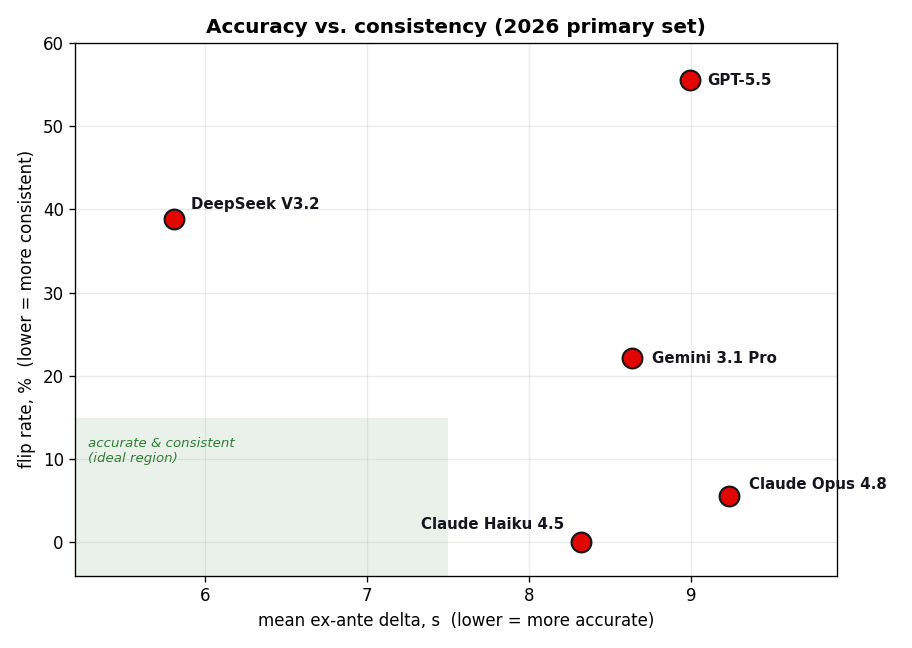
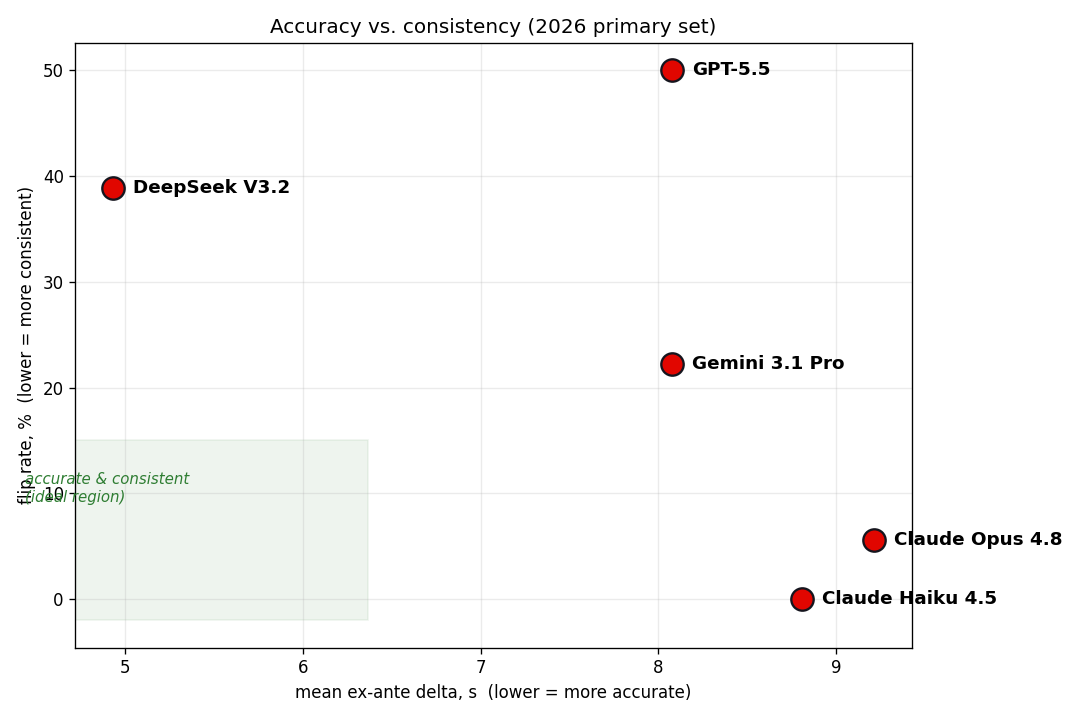
Add combined calibration figure; honest contamination season_gap
Figure 2 (calibration_combined.png): predicted vs observed mean lap time
per stint pooled over all 510 stints from the 11 races, y=x reference,
plus a per-lap absolute-error histogram with the per-stint median (0.09)
and mean (0.22) MAE marked.

season_gap.png: recomputed from scores.jsonl on the dry subset (matching
outputs/contamination.md) with the H3 Mann-Whitney + Holm test. Each
model is now labelled by the direction of its significant gap so the
figure communicates the weak, mixed signal honestly: deepseek/gemini
significantly better on pre-2026 (recall), gpt-5.5/haiku significantly
worse (not recall), opus no gap.

Changed region(s): [[0.0, 0.0309, 0.9825, 0.9877], [0.1842, 0.3086, 0.3377, 0.3704], [0.3991, 0.6481, 0.4298, 0.8025]]

diff --git a/analysis/figures.py b/analysis/figures.py
@@ -23,6 +23,16 @@ FIG_DIR = OUTPUTS / "figures"
 ACCENT = "#e10600"
 DARK = "#15151e"
 
+# Pretty display names for per-model figures.
+PRETTY = {
+    "gpt-5.5": "GPT-5.5",
+    "deepseek-v3.2": "DeepSeek V3.2",
+    "gemini-3.1-pro": "Gemini 3.1 Pro",
+    "claude-opus-4.8": "Claude Opus 4.8",
+    "claude-haiku-4.5": "Claude Haiku 4.5",
+    "claude-fable-5": "Claude Fable 5",
+}
+
 plt.rcParams.update({"figure.dpi": 120, "axes.grid": True, "grid.alpha": 0.25})
 
 
@@ -36,12 +46,34 @@ def load_inputs() -> tuple[dict, list[dict]]:
     return board, scores
 
 
-def fig_leaderboard_bar(board: dict) -> Path:
-    rows = [m for m in board["models"] if m["mean_delta_exante_s"] is not None]
-    rows.sort(key=lambda m: m["mean_delta_exante_s"], reverse=True)  # best at top of barh
-    names = [m["model"] for m in rows]
-    exante = [m["mean_delta_exante_s"] for m in rows]
-    hindsight = [m.get("mean_delta_hindsight_s") or np.nan for m in rows]
+def _primary_2026(scores: list[dict]) -> dict[str, dict[str, float]]:
+    """Per-model mean delta_exante / delta_hindsight on the 2026 PRIMARY set
+    (post-cutoff races, dry subset). This is the headline evaluation set."""
+    ex: dict[str, list[float]] = {}
+    hi: dict[str, list[float]] = {}
+    for s in scores:
+        if s["invalid"] or s.get("changeable_conditions") or s["season"] != 2026:
+            continue
+        if s.get("delta_exante_s") is not None:
+            ex.setdefault(s["model_name"], []).append(s["delta_exante_s"])
+        if s.get("delta_hindsight_s") is not None:
+            hi.setdefault(s["model_name"], []).append(s["delta_hindsight_s"])
+    return {
+        m: {
+            "mean_exante": float(np.mean(ex[m])),
+            "mean_hindsight": float(np.mean(hi[m])) if hi.get(m) else np.nan,
+        }
+        for m in ex
+    }
+
+
+def fig_leaderboard_bar(scores: list[dict], board: dict) -> Path:
+    # 2026 PRIMARY set (post-cutoff dry races) — the contamination-proof headline.
+    prim = _primary_2026(scores)
+    rows = sorted(prim.items(), key=lambda kv: kv[1]["mean_exante"], reverse=True)  # best at top
+    names = [PRETTY.get(m, m) for m, _ in rows]
+    exante = [v["mean_exante"] for _, v in rows]
+    hindsight = [v["mean_hindsight"] for _, v in rows]
     y = np.arange(len(names))
     fig, ax = plt.subplots(figsize=(8, 4.6))
     bars = ax.barh(y + 0.2, exante, height=0.4, color=ACCENT, label="vs ex-ante optimal (primary)")
@@ -49,10 +81,56 @@ def fig_leaderboard_bar(board: dict) -> Path:
     ax.bar_label(bars, fmt="%.1f", padding=3, fontsize=9)
     ax.set_yticks(y, names)
     ax.set_xlabel("mean delta (s) - lower is better")
-    ax.set_title(f"BOXBOX leaderboard ({board['mode']} data)")
+    ax.set_title(f"BOXBOX leaderboard — 2026 primary set ({board['mode']} data)")
     ax.legend(fontsize=8)
     fig.tight_layout()
     path = FIG_DIR / "leaderboard_bar.png"
+    fig.savefig(path)
+    plt.close(fig)
+    return path
+
+
+def fig_accuracy_vs_consistency(scores: list[dict], board: dict) -> Path:
+    """Scatter: accuracy (mean ex-ante delta on the 2026 primary set, x) vs consistency
+    (flip rate %, y). Both lower = better; the bottom-left is the ideal region."""
+    prim = _primary_2026(scores)
+    flip = {m["model"]: m["flip_rate_pct"] for m in board["models"]}
+    fig, ax = plt.subplots(figsize=(9, 6))
+    xs, ys = [], []
+    for model, v in prim.items():
+        x = v["mean_exante"]
+        y = flip.get(model)
+        if y is None:
+            continue
+        xs.append(x)
+        ys.append(y)
+        ax.scatter(x, y, s=180, color=ACCENT, edgecolor=DARK, linewidth=1.4, zorder=3)
+        ax.annotate(
+            PRETTY.get(model, model),
+            (x, y),
+            xytext=(12, 0),
+            textcoords="offset points",
+            va="center",
+            fontsize=11,
+            fontweight="bold",
+        )
+    # ideal region (accurate & consistent)
+    x0 = min(xs) - 0.5
+    ax.axhspan(-2, 15, xmin=0, xmax=0.35, color="#2e7d32", alpha=0.08, zorder=0)
+    ax.text(
+        x0,
+        12,
+        "accurate & consistent\n(ideal region)",
+        fontsize=9,
+        color="#2e7d32",
+        style="italic",
+        va="top",
+    )
+    ax.set_xlabel("mean ex-ante delta, s  (lower = more accurate)")
+    ax.set_ylabel("flip rate, %  (lower = more consistent)")
+    ax.set_title("Accuracy vs. consistency (2026 primary set)")
+    fig.tight_layout()
+    path = FIG_DIR / "accuracy_vs_consistency.png"
     fig.savefig(path)
     plt.close(fig)
     return path
@@ -126,36 +204,199 @@ def fig_flip_rate(board: dict) -> Path:
     return path
 
 
-def fig_season_gap(board: dict) -> Path | None:
-    """Contamination-gap chart: mean delta on pre-2026 vs 2026 races per model."""
-    models = [m for m in board["models"] if m.get("per_season_mean_delta_exante_s")]
-    seasons = sorted({s for m in models for s in m["per_season_mean_delta_exante_s"]})
-    old = [s for s in seasons if s < "2026"]
-    if not old or "2026" not in seasons:
-        return None
-    names = [m["model"] for m in models]
-    pre = [
-        np.mean(
-            [
-                m["per_season_mean_delta_exante_s"][s]
-                for s in old
-                if s in m["per_season_mean_delta_exante_s"]
-            ]
-        )
-        for m in models
+def _calibration_records_all() -> list[dict]:
+    """Per-stint simulator-vs-actual records pooled across all 11 races.
+
+    Read-only: ingest_race reads data/processed/*.json (no network, no spend); the
+    degradation fits and calibration_records are deterministic. Mirrors the per-race
+    logic in scripts/build_dataset.py so the combined figure matches the per-race ones.
+    """
+    from boxbox.config import load_config
+    from boxbox.data.ingest import ingest_race
+    from boxbox.dataset import race_specs
+    from boxbox.sim.degradation import calibration_records
+    from boxbox.sim.race_sim import make_simulator
+
+    sim_cfg = load_config("run").get("simulator", {})
+    records: list[dict] = []
+    for spec in race_specs(None):
+        race = ingest_race(spec["race_id"], int(spec["year"]), str(spec["event"]))
+        _, deg, _, _, _ = make_simulator(race, sim_cfg)
+        records += calibration_records(race, deg)
+    return records
+
+
+def fig_calibration_combined() -> Path:
+    """Paper Figure 2: simulator calibration pooled over every stint in all 11 races.
+
+    Left: predicted vs observed mean lap time per stint (one point per stint) with a
+    y=x reference. Right: histogram of per-lap absolute error, with the per-stint
+    median (0.09 s) and mean (0.22 s) MAE marked. Axes are in seconds-per-lap so the
+    scatter, the histogram, and the annotated MAE are all in the same units."""
+    records = _calibration_records_all()
+    actual = np.array([r["actual_s"] / r["n_laps"] for r in records])
+    predicted = np.array([r["predicted_s"] / r["n_laps"] for r in records])
+    abs_err = np.abs(predicted - actual)  # per-lap absolute error, one per stint
+    median_mae = float(np.median(abs_err))
+    mean_mae = float(np.mean(abs_err))
+
+    fig, (ax1, ax2) = plt.subplots(1, 2, figsize=(12, 5))
+
+    ax1.scatter(actual, predicted, s=20, alpha=0.55, color=ACCENT, edgecolor="none", zorder=3)
+    lo = float(min(actual.min(), predicted.min()))
+    hi = float(max(actual.max(), predicted.max()))
+    pad = 0.03 * (hi - lo)
+    ax1.plot([lo - pad, hi + pad], [lo - pad, hi + pad], "k--", lw=1.2, zorder=2, label="y = x")
+    ax1.set_xlim(lo - pad, hi + pad)
+    ax1.set_ylim(lo - pad, hi + pad)
+    ax1.set_aspect("equal", adjustable="box")
+    ax1.set_xlabel("observed mean lap time per stint (s)")
+    ax1.set_ylabel("simulated mean lap time per stint (s)")
+    ax1.set_title(f"Stint calibration — all 11 races ({len(records)} stints)")
+    ax1.legend(loc="upper left", fontsize=9)
+
+    ax2.hist(abs_err, bins=40, color=DARK, edgecolor="white", linewidth=0.4)
+    ax2.axvline(median_mae, color=ACCENT, lw=2, label=f"median MAE = {median_mae:.2f} s/lap")
+    ax2.axvline(mean_mae, color="#2e7d32", lw=2, ls="--", label=f"mean MAE = {mean_mae:.2f} s/lap")
+    ax2.set_xlabel("per-lap absolute error (s/lap)")
+    ax2.set_ylabel("stints")
+    ax2.set_title("Per-stint calibration error")
+    ax2.legend(fontsize=9)
+
+    fig.tight_layout()
+    path = FIG_DIR / "calibration_combined.png"
+    fig.savefig(path)
+    plt.close(fig)
+    return path
+
+
+def _season_gap_stats(scores: list[dict]) -> dict[str, dict]:
+    """Per-model pre-2026 vs 2026 mean delta_exante on the DRY subset, plus the H3
+    test (two-sided Mann-Whitney U, Holm-corrected across models). Recomputed here
+    from scores.jsonl so the figure is identical to outputs/contamination.md (§8e)
+    rather than the unweighted per-season averages stored on the leaderboard."""
+    from scipy.stats import mannwhitneyu
+
+    valid = [
+        s
+        for s in scores
+        if not s["invalid"]
+        and s.get("delta_exante_s") is not None
+        and not s.get("changeable_conditions")
     ]
-    new = [m["per_season_mean_delta_exante_s"].get("2026", np.nan) for m in models]
+    models = sorted({s["model_name"] for s in valid})
+
+    def deltas(m: str, pred) -> list[float]:
+        return [s["delta_exante_s"] for s in valid if s["model_name"] == m and pred(s)]
+
+    stats: dict[str, dict] = {}
+    pvals: dict[str, float] = {}
+    for m in models:
+        pre = deltas(m, lambda s: s["season"] < 2026)
+        new = deltas(m, lambda s: s["season"] == 2026)
+        if not pre or not new:
+            continue
+        stats[m] = {
+            "pre": float(np.mean(pre)),
+            "new": float(np.mean(new)),
+            "gap": float(np.mean(pre) - np.mean(new)),
+            "n_pre": len(pre),
+            "n_new": len(new),
+        }
+        if len(pre) >= 3 and len(new) >= 3:
+            _, p = mannwhitneyu(pre, new, alternative="two-sided")
+            pvals[m] = float(p)
+
+    # Holm-Bonferroni across models (identical to scripts/contamination_report.py).
+    items = sorted(pvals.items(), key=lambda kv: kv[1])
+    k = len(items)
+    running = 0.0
+    for i, (m, p) in enumerate(items):
+        adj = max(min(1.0, (k - i) * p), running)
+        running = adj
+        stats[m]["holm_p"] = adj
+        stats[m]["sig"] = adj < 0.05
+    return stats
+
+
+def fig_season_gap(scores: list[dict]) -> Path | None:
+    """Contamination-check chart: per-model mean delta on pre-2026 vs 2026 races, on the
+    DRY subset, with Holm-significant gaps marked. The finding is a WEAK, MIXED signal —
+    the figure must not imply a clean null OR a strong recall effect, so each model is
+    labelled by the *direction* of its significant gap, not just a bare asterisk."""
+    stats = _season_gap_stats(scores)
+    if not stats:
+        return None
+    # Order by 2026 mean (best first) for a leaderboard-like reading.
+    names = sorted(stats, key=lambda m: stats[m]["new"])
+    pre = [stats[m]["pre"] for m in names]
+    new = [stats[m]["new"] for m in names]
     x = np.arange(len(names))
-    fig, ax = plt.subplots(figsize=(8.5, 4.2))
-    ax.bar(x - 0.2, pre, width=0.4, label="2024-25 (possibly in training data)", color="#888")
-    ax.bar(x + 0.2, new, width=0.4, label="2026 (contamination-proof)", color=ACCENT)
-    ax.set_xticks(x, names, rotation=20, ha="right")
-    ax.set_ylabel("mean delta vs ex-ante optimal (s)")
-    ax.set_title("contamination gap: old vs new races")
-    ax.legend()
+
+    fig, ax = plt.subplots(figsize=(10, 5.2))
+    ax.bar(
+        x - 0.2,
+        pre,
+        width=0.4,
+        label="2024-25 pre-cutoff (possibly in training data)",
+        color="#888",
+    )
+    ax.bar(x + 0.2, new, width=0.4, label="2026 post-cutoff (contamination-proof)", color=ACCENT)
+
+    ymax = max(max(pre), max(new))
+    for i, m in enumerate(names):
+        st = stats[m]
+        top = max(st["pre"], st["new"])
+        if not st.get("sig"):
+            tag, color = "n.s.", "#555"
+        elif st["gap"] < 0:
+            # significantly LOWER (better) on pre-2026 — the recall direction
+            tag, color = "★ better on pre-2026\n(recall signal)", "#b00020"
+        else:
+            # significant but WORSE on pre-2026 — opposite of recall
+            tag, color = "* worse on pre-2026\n(not recall)", "#1565c0"
+        ax.annotate(
+            tag,
+            (i, top),
+            xytext=(0, 8),
+            textcoords="offset points",
+            ha="center",
+            va="bottom",
+            fontsize=8,
+            fontweight="bold",
+            color=color,
+        )
+        ax.annotate(
+            f"gap {st['gap']:+.2f}s",
+            (i, top),
+            xytext=(0, 34),
+            textcoords="offset points",
+            ha="center",
+            va="bottom",
+            fontsize=7.5,
+            color=color,
+        )
+
+    ax.set_xticks(x, [PRETTY.get(m, m) for m in names], rotation=15, ha="right")
+    ax.set_ylabel("mean delta vs ex-ante optimal (s)  —  lower = better")
+    ax.set_ylim(top=ymax * 1.5)
+    ax.set_title("Contamination check: pre-2026 vs 2026 (dry subset, Holm-corrected)")
+    ax.legend(loc="upper right", fontsize=8)
+    ax.text(
+        0.0,
+        -0.22,
+        "Weak, mixed signal: a true recall effect would mean LOWER 2026 bars (★). Only DeepSeek and "
+        "Gemini show that, and only weakly\n(gaps −0.67s / −3.35s). GPT-5.5 and Haiku are significantly "
+        "WORSE on pre-2026 (opposite of recall); Opus shows no significant gap.\nThe same-track Monaco "
+        "comparison is flat. ★/* = significant after Holm @0.05; n.s. = not significant.",
+        transform=ax.transAxes,
+        fontsize=7.5,
+        va="top",
+        color="#333",
+    )
     fig.tight_layout()
     path = FIG_DIR / "season_gap.png"
-    fig.savefig(path)
+    fig.savefig(path, bbox_inches="tight")
     plt.close(fig)
     return path
 
@@ -167,12 +408,14 @@ def main() -> int:
     FIG_DIR.mkdir(parents=True, exist_ok=True)
     board, scores = load_inputs()
     paths = [
-        fig_leaderboard_bar(board),
+        fig_leaderboard_bar(scores, board),
+        fig_accuracy_vs_consistency(scores, board),
         fig_delta_distribution(scores),
         fig_race_heatmap(board),
         fig_flip_rate(board),
+        fig_calibration_combined(),
     ]
-    season = fig_season_gap(board)
+    season = fig_season_gap(scores)
     if season:
         paths.append(season)
     for p in paths: